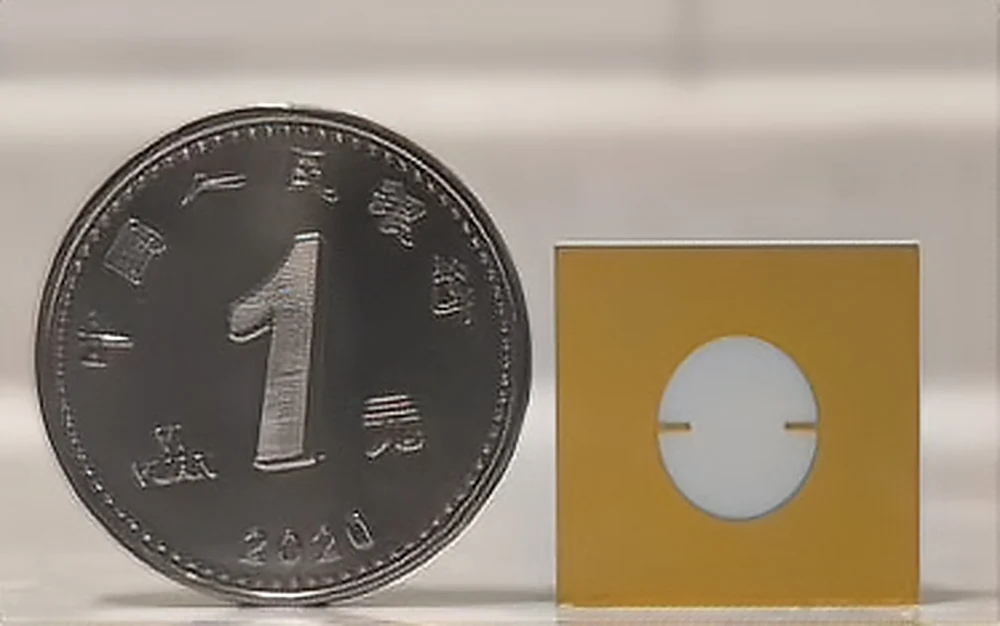
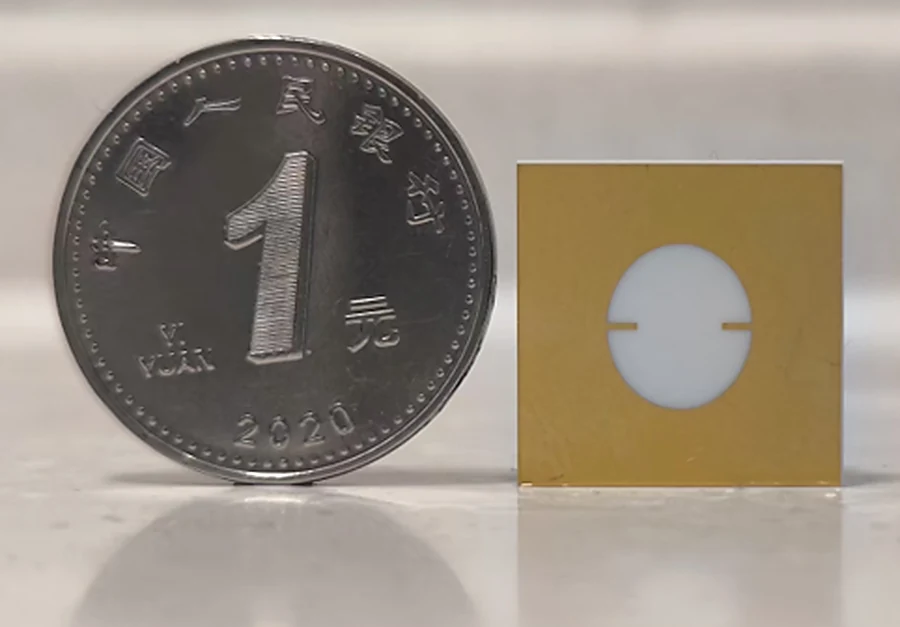
Refine hardware gallery: replace antenna images, unify layout and labels

diff --git a/assets/css/main.scss b/assets/css/main.scss
@@ -246,35 +246,43 @@ h1:before, .anchor:before {
 .hw-grid {
     display: flex;
     flex-wrap: wrap;
-    gap: 1.25rem;
+    gap: 1.1rem;
     margin: 1rem 0 1.5rem;
     align-items: flex-start;
+    justify-content: center;
 }
 
 .hw-card {
     position: relative;
-    border: 1px solid #e0e0e0;
-    border-radius: $border-radius;
+    border: 1px solid #e2e6ea;
+    border-radius: 6px;
     overflow: hidden;
     background: #fff;
+    box-shadow: 0 1px 3px rgba(0, 0, 0, .08);
+    transition: box-shadow .2s ease, transform .2s ease;
 
     img {
         display: block;
-        height: 260px;
+        height: 200px;
         width: auto;
+    }
+
+    &:hover {
+        box-shadow: 0 5px 16px rgba(0, 0, 0, .16);
+        transform: translateY(-2px);
     }
 
     &[data-title]::before {
         content: attr(data-title);
         position: absolute;
-        top: .55rem;
-        left: .55rem;
+        top: .3rem;
+        left: .3rem;
         z-index: 2;
-        max-width: calc(100% - 1.1rem);
-        padding: .3rem .55rem;
+        max-width: calc(100% - .6rem);
+        padding: .25rem .5rem;
         background: #0b4fa3;
         color: #fff;
-        font-size: .82rem;
+        font-size: .75rem;
         font-weight: 700;
         line-height: 1.25;
         border-radius: 3px;
@@ -284,22 +292,17 @@ h1:before, .anchor:before {
 }
 
 .ant-grid {
-    gap: 3rem;
-    justify-content: center;
-
-    .hw-card img { height: 200px; }
+    gap: 1.6rem;
 }
 
 @media (max-width: 900px) {
-    .hw-card img { height: 240px; }
-    .ant-grid { gap: 2.25rem; }
-    .ant-grid .hw-card img { height: 190px; }
+    .hw-card img { height: 185px; }
+    .ant-grid { gap: 1.4rem; }
 }
 
 @media (max-width: 600px) {
-    .hw-card img { height: 220px; }
-    .ant-grid { gap: 1.5rem; }
-    .ant-grid .hw-card img { height: 175px; }
+    .hw-card img { height: 165px; }
+    .ant-grid { gap: 1.1rem; }
 }
 
 /* ------------------------------------------------------------------

diff --git a/_pages/about.md b/_pages/about.md
@@ -238,7 +238,7 @@ Here are some of the hardware systems and prototypes I have designed, spanning r
 ## Full-Duplex Antennas {#full-duplex-antennas}
 
 <div class="hw-grid ant-grid">
-<div class="hw-card" data-title="Co-Aperture Dual-Circularly Polarized LRA Package Antenna"><picture><source srcset="/images/HW_LRA_DualCP.webp" type="image/webp"><img src="/images/HW_LRA_DualCP.jpg" alt="Co-aperture dual-circularly polarized LRA packaged antenna prototype beside a coin for scale" loading="lazy"></picture></div>
+<div class="hw-card" data-title="Co-Aperture Dual-Circularly Polarized LRA Package Antenna"><picture><source srcset="/images/HW_LRA_DualCP.webp" type="image/webp"><img src="/images/HW_LRA_DualCP.jpg" alt="Co-aperture dual-circularly polarized LRA packaged antenna prototype" loading="lazy"></picture></div>
 <div class="hw-card" data-title="Co-Radiator Co-Linearly Polarized Elliptical LRA Package Antenna"><picture><source srcset="/images/HW_LRA_CoLinear.webp" type="image/webp"><img src="/images/HW_LRA_CoLinear.jpg" alt="Co-radiator co-linearly polarized elliptical LRA packaged antenna prototype" loading="lazy"></picture></div>
 </div>
 

diff --git a/_pages/about-zh.md b/_pages/about-zh.md
@@ -235,7 +235,7 @@ Jiayu Zhang, Yuchen Li, Wenjie Li, **Zhiwei Zhang**, Changzhan Gu&#42; and Junfa
 ## 全双工天线 {#full-duplex-antennas}
 
 <div class="hw-grid ant-grid">
-<div class="hw-card" data-title="共口径双圆极化 LRA 封装天线"><picture><source srcset="/images/HW_LRA_DualCP.webp" type="image/webp"><img src="/images/HW_LRA_DualCP.jpg" alt="共口径双圆极化 LRA 封装天线原型，旁边放置硬币作为尺寸参考" loading="lazy"></picture></div>
+<div class="hw-card" data-title="共口径双圆极化 LRA 封装天线"><picture><source srcset="/images/HW_LRA_DualCP.webp" type="image/webp"><img src="/images/HW_LRA_DualCP.jpg" alt="共口径双圆极化 LRA 封装天线原型" loading="lazy"></picture></div>
 <div class="hw-card" data-title="共辐射同极化椭圆 LRA 封装天线"><picture><source srcset="/images/HW_LRA_CoLinear.webp" type="image/webp"><img src="/images/HW_LRA_CoLinear.jpg" alt="共辐射同极化椭圆 LRA 封装天线原型" loading="lazy"></picture></div>
 </div>
 
